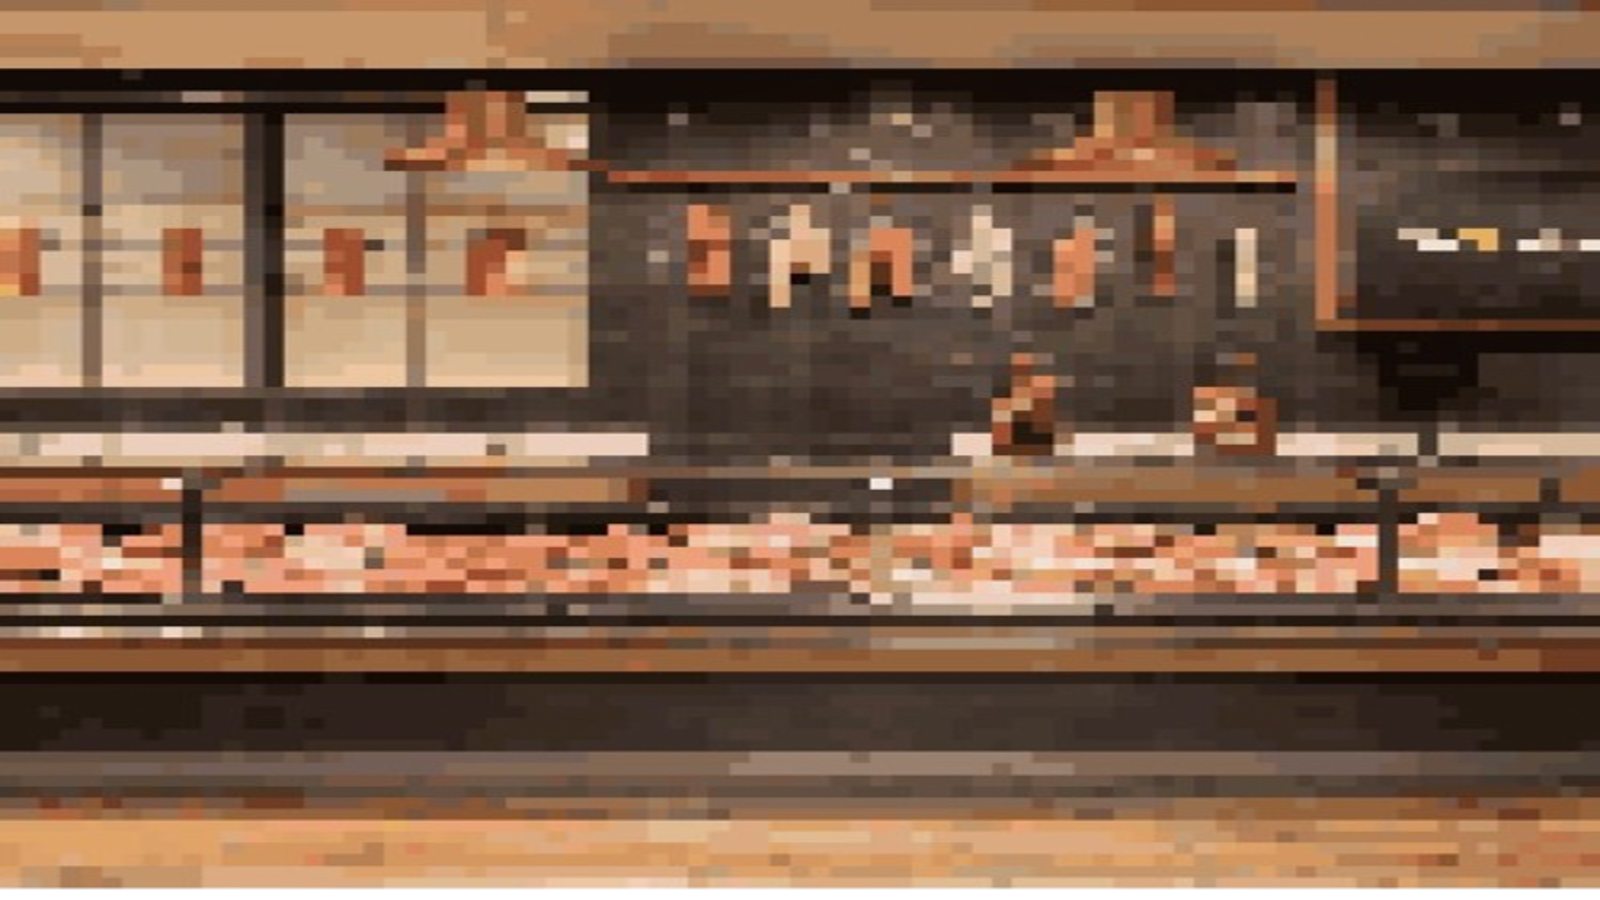
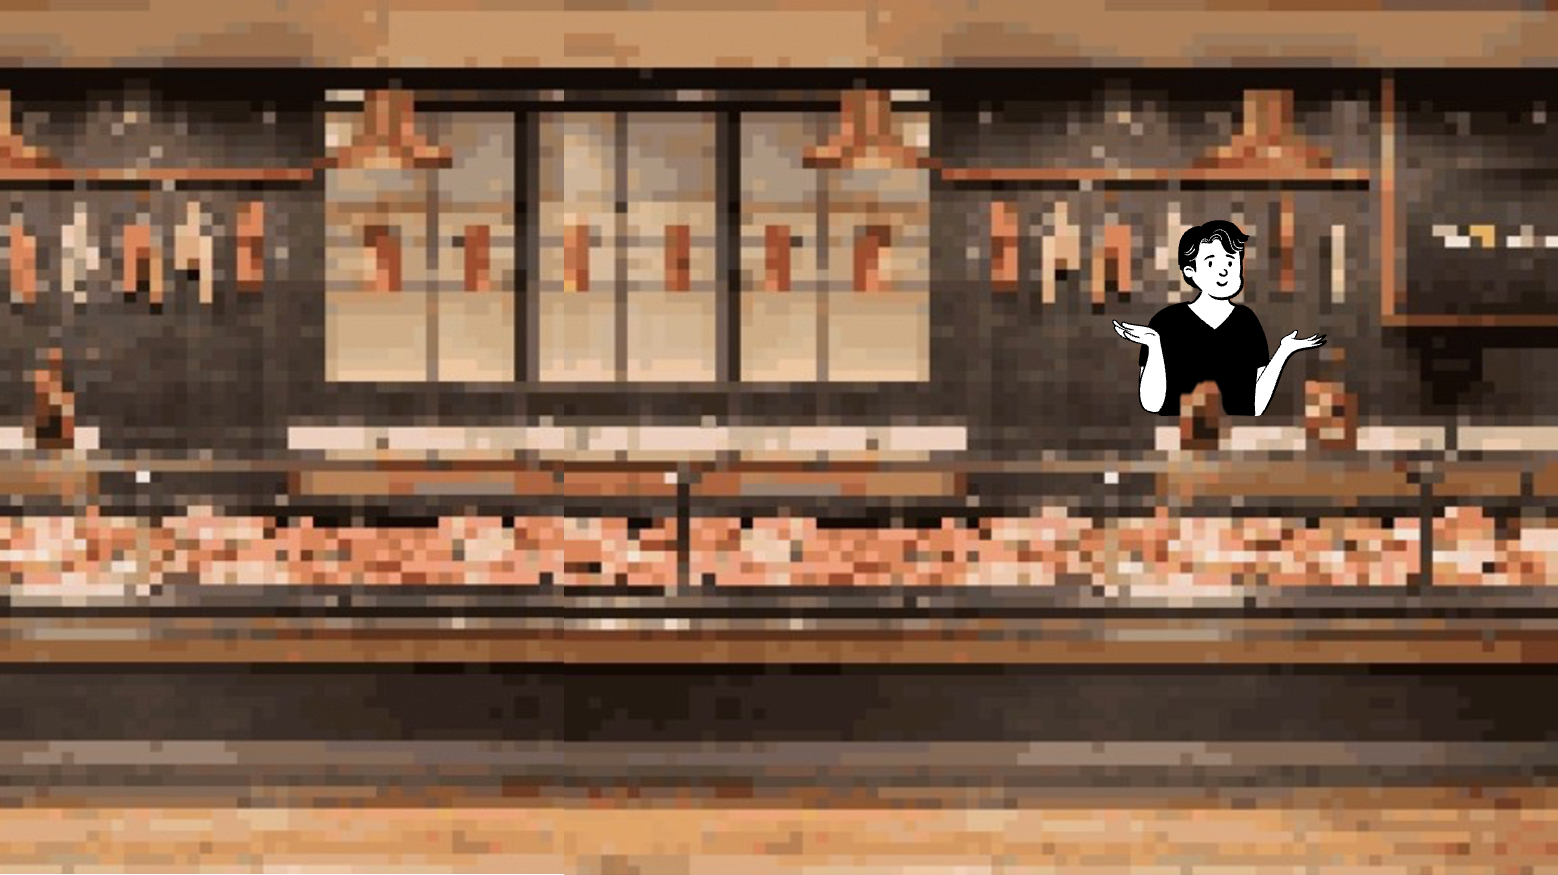
Fleischtheke

diff --git a/src/functions/handle_draws.py b/src/functions/handle_draws.py
@@ -1,0 +1,65 @@
+import pygame
+
+from config import *
+from functions.speech_bubble import speech_bubble
+
+def handle_draws(self):
+    if self.STAGE == "home":
+        pass
+
+    elif self.STAGE == "walk_into_edeka":
+        pass
+
+    elif self.STAGE == "edeka":
+
+        if self.edeka_stage == 1:
+            pass
+
+        elif self.edeka_stage == 2:
+            pass
+
+        elif self.edeka_stage == 3:
+            
+            if self.sp_b_it == 1:
+                text = "Moin! Ich nehme gerne ein Schnitzel im Broetchen mit Gewuerzketchup."
+                sb = speech_bubble(text, 600, True, "l", 24)
+                self.screen.blit(sb, (self.player.x + self.player.width*0.7, self.player.y - sb.get_height() + 25))
+            
+            elif self.sp_b_it == 2:
+                text = "Jo, gerne doch! Soll ich es noch einmal warm machen?"
+                sb = speech_bubble(text, 700, True, "r", 24)
+                self.screen.blit(sb, (990 - sb.get_width(), 220 - sb.get_height()))
+            
+            elif self.sp_b_it == 3:
+                text = "Ja gerne! Koennten Sie es mir dann auch direkt in meinen Beutel geben? Ich möchte gerne ein wenig auf Plastik im Alltag verzichten."
+                sb = speech_bubble(text, 700, True, "l", 24)
+                self.screen.blit(sb, (self.player.x + self.player.width*0.7, self.player.y - sb.get_height() + 25))
+            
+            elif self.sp_b_it == 4:
+                text = "Oh, das tut mir Leid... Das geht leider nicht. Firmen- und EU-Richtlinien..."
+                sb = speech_bubble(text, 700, True, "r", 24)
+                self.screen.blit(sb, (990 - sb.get_width(), 220 - sb.get_height()))
+            
+            elif self.sp_b_it == 5:
+                text = "Sind Sie sicher? Wie wäre es mit einer Wette? Wenn ich es schaffe allen Verpackungen auszuweichen, kriege ich das Broetchen so mit?"
+                sb = speech_bubble(text, 700, True, "l", 24)
+                self.screen.blit(sb, (self.player.x + self.player.width*0.7, self.player.y - sb.get_height() + 25))
+            
+            elif self.sp_b_it == 6:
+                text = "Nagut, mach dich bereit!"
+                sb = speech_bubble(text, 700, True, "r", 24)
+                self.screen.blit(sb, (990 - sb.get_width(), 220 - sb.get_height()))
+
+            elif self.sp_b_it == 7:
+                self.edeka_buttons_pressable = False
+                self.movement = False
+
+                self.active_sprites.add(self.space)
+                self.active_sprites.add(self.close_button)
+            
+            if pygame.time.get_ticks() - self.time_interval > self.interval_ms and self.sp_b_it <= 7:
+                self.time_interval = pygame.time.get_ticks()
+                self.sp_b_it += 1
+
+        elif self.edeka_stage == 4:
+            pass

diff --git a/src/functions/handle_edeka.py b/src/functions/handle_edeka.py
@@ -9,6 +9,10 @@ from classes.progress_bar import ProgressBar
 
 from functions.remove_sprites import remove_sprites
 from functions.inits import *
+from functions.speech_bubble import speech_bubble
+
+timer = 0
+check = True
 
 #load images from assets from home folder
 def load_image_asset(subfolder, file):
@@ -18,6 +22,9 @@ def load_image_asset(subfolder, file):
         return os.path.join(WORKING_DIR, 'assets', 'images', 'edeka', file)
 
 def handle_edeka(self):
+    global timer
+    global check
+    
     #handle each stage individually
     if self.edeka_stage == 1:
 
@@ -36,6 +43,8 @@ def handle_edeka(self):
                     self.buttons_not_pressable = True
                     self.transition_player_info = [Iwidth//2 - Iwidth//12, int(Iheight * 0.333), Iwidth//6, Iheight//2]
                     self.edeka_stage = 1
+
+                    self.sp_b_it = 0
         
         #open the next stage
         if self.player.x >= Iwidth - self.player.width//2:
@@ -80,8 +89,14 @@ def handle_edeka(self):
 
             #go to the next stage
             self.edeka_stage = 3
+            timer = pygame.time.get_ticks()
 
     elif self.edeka_stage == 3:
+
+        #stop the players movement so that the dialog can be played
+        if pygame.time.get_ticks() - timer > 1500 and check:
+            check = False
+            self.movement = False
 
         #go back to the previous stage
         if self.player.x <= -self.player.width//2:
@@ -142,3 +157,4 @@ def handle_edeka(self):
                     self.buttons_not_pressable = True
                     self.transition_player_info = [Iwidth//2 - Iwidth//12, int(Iheight * 0.333), Iwidth//6, Iheight//2]
         
+                    self.sp_b_it = 0

diff --git a/src/screens/deposit_machine.py b/src/screens/deposit_machine.py
@@ -47,6 +47,7 @@ class DepositeMachine(pygame.sprite.Sprite):
             img_6,
         ]
         self.it = 0
+        self.zero_one_first = True
 
     def update(self, Iwidth:int, Iheight:int, Cwidth:int, Cheight:int, *args, **kwargs):
         self.image.fill((0, 0, 0, 150))
@@ -58,6 +59,7 @@ class DepositeMachine(pygame.sprite.Sprite):
         if "game_class" in kwargs:
             game_obj = kwargs["game_class"]
         if self.it < game_obj.plastic_bottles:
+            self.zero_one_first = False
             self.image.blit(self.put_bottle[self.it_idx], (Iwidth//2-self.put_bottle[self.it_idx].get_width()//2 - 150, Iheight-self.put_bottle[self.it_idx].get_height()))
             if pygame.time.get_ticks() - self.time_interval > self.interval_ms:
                 self.time_interval = pygame.time.get_ticks()
@@ -66,11 +68,12 @@ class DepositeMachine(pygame.sprite.Sprite):
                 self.it_idx = 0
                 self.it += 1
         else:
-            #close the window automatically after the time has finished
-            game_obj.edeka_buttons_pressable = True
-            game_obj.movement = True
-            game_obj.active_sprites.remove(game_obj.deposit_machine)
-            game_obj.active_sprites.remove(game_obj.close_button)
+            if not self.zero_one_first:
+                #close the window automatically after the time has finished
+                game_obj.edeka_buttons_pressable = True
+                game_obj.movement = True
+                game_obj.active_sprites.remove(game_obj.deposit_machine)
+                game_obj.active_sprites.remove(game_obj.close_button)
 
         #Objekt skalieren
         x_factor = Cwidth/Iwidth

diff --git a/src/functions/inits.py b/src/functions/inits.py
@@ -81,6 +81,7 @@ def init_home(self):
 def init_pre_edeka(self):
     #pop-up screens
     self.pre_edeka_buttons_pressable = True
+    self.plastic_bottles = 0
 
     #load images from assets from home folder
     def load_image_asset(subfolder, file):
@@ -121,6 +122,9 @@ def init_pre_edeka(self):
 def init_edeka(self):
     #pop-up screens
     self.edeka_buttons_pressable = True
+    self.interval_ms = 5000
+    self.time_interval = pygame.time.get_ticks()
+    self.sp_b_it = 0
 
     #load images from assets from home folder
     def load_image_asset(subfolder, file):
@@ -144,7 +148,9 @@ def init_edeka(self):
                     
     # obejcts in stage 3
     self.edeka_3_background         = GImage(0, 0, Iwidth, Iheight, load_image_asset('backgrounds', 'Fleischtheke.png'), False)
-    self.space_button               = Button(Iwidth//2 - 50, Iheight//2 - 50, 100, 100, (192, 160, 236))
+    #self.edeka_3_background_top     = GImage(0, 0, Iwidth, Iheight, load_image_asset('backgrounds', 'Fleischtheke.png'), False)
+    #self.edeka_3_background_bottom  = GImage(0, 0, Iwidth, Iheight, load_image_asset('backgrounds', 'Fleischtheke.png'), False)
+    #self.seller                     = GImage(700, 200, 200, 400, (200, 230, 150), False)
     self.space                      = Space()      
 
     # obejcts in stage 4
@@ -178,7 +184,6 @@ def add_edeka_2(self):
 def add_edeka_3(self):
     # add those objects to the right sprites group
     self.active_sprites.add(self.edeka_3_background)
-    self.active_sprites.add(self.space_button)
 def add_edeka_4(self):
     # add those objects to the right sprites group
     self.active_sprites.add(self.edeka_4_background)

diff --git a/src/game.py b/src/game.py
@@ -13,6 +13,7 @@ from functions.inits import init_home, init_pre_edeka, init_edeka
 from functions.handle_edeka import handle_edeka
 from functions.remove_sprites import remove_sprites
 from functions.handle_mouse_clicks import handle_mouse_home, handle_mouse_edeka, handle_mouse_pre_edeka
+from functions.handle_draws import handle_draws
 
 from screens.settings_screen import SettingsScreen
 from screens.book_screen import BookScreen
@@ -81,7 +82,7 @@ class Game:
 
         # init the home stage
         init_home(self)
-        pygame.mixer.music.set_volume(0.01)
+        pygame.mixer.music.set_volume(0.25)
         music = pygame.mixer.music.load("./assets/sounds/Startbildschirm_GameMusik.mp3")
         pygame.mixer.music.play(loops=-1)
 
@@ -145,6 +146,9 @@ class Game:
             self.active_sprites.update(Iwidth, Iheight, Cwidth, Cheight, stage=self.STAGE, progress=self.progress, player_movement=self.movement, game_class=self)
             self.active_sprites.draw(self.screen)
 
+            #hande all drawings that should be done besides the sprites
+            handle_draws(self)
+
             #do everything ontop of the game then end the frame
             self.transition_black(pygame.time.get_ticks(), self.tmp_ticker_start, self.black_transition[1])
             draw_p_data(self, Cwidth, self.STAGE)
@@ -187,7 +191,7 @@ class Game:
                 self.movement = True
 
             #update the volume
-            pygame.mixer.music.set_volume(0.01)
+            pygame.mixer.music.set_volume(0.25)
         else:
             return
 

diff --git a/src/functions/speech_bubble.py b/src/functions/speech_bubble.py
@@ -2,10 +2,10 @@ import pygame
 
 from config import *
 
-def speech_bubble(text, max_width, corner:bool = False, crn_dir:str = "l"):
+def speech_bubble(text, max_width, corner:bool = False, crn_dir:str = "l", font_size:int = 32):
 
     # modify the text --------------------------------------------------------------
-    font = pygame.font.Font(os.path.join(WORKING_DIR, 'assets', 'fonts', 'game-font.ttf'), 32)
+    font = pygame.font.Font(os.path.join(WORKING_DIR, 'assets', 'fonts', 'game-font.ttf'), font_size)
     words = text.split(' ')
     rendered_lines = []
     rendered_text = ''
@@ -36,12 +36,12 @@ def speech_bubble(text, max_width, corner:bool = False, crn_dir:str = "l"):
     for idx, line in enumerate(rendered_lines):
         line_sf = font.render(rendered_lines[idx], True, (0, 0, 0), (255, 255, 255))
         text_obj.blit(line_sf, (max_width//2 - font.size(rendered_lines[idx])[0]//2, (font.size(rendered_lines[idx])[1] + 5)*idx))
-    padding = 50
+    padding = 70
     width = text_obj.get_width() + padding
     height = text_obj.get_height() + padding
 
     #draw the frame around the text ------------------------------------------------
-    line_width = 10
+    line_width = font_size//3
 
     #basic surface
     if not corner:

diff --git a/src/screens/candy_crush.py b/src/screens/candy_crush.py
@@ -144,10 +144,10 @@ class CandyCrush(pygame.sprite.Sprite):
 
 
         #structure the time whenm the window was opened
-        self.interval_1_ms = 10000
+        self.interval_1_ms = 12000
         self.interval_2_ms = 45000
         if 0 <= self.time_since_start_ms <= self.interval_1_ms:
-            sb = speech_bubble("awd awd awdawddddddd awdawa a aaw ad awdawd awaadawd asdaaa aaaaaa aa aaaaaa aaa aaaaaa aaaaa aaaa aadadadad  adadawdaw asdawd awda awdawd awdawdawd awdawd awd awd awddawd awd awdawd awd adw adawd awd awd awdad adadawdaw asdawd awda awdawd awdawdawd awdawd awd awd awddawd awd awdawd awd adw adawd awd awd awdad", 500, True, "l")
+            sb = speech_bubble("Sehr gut! Wie es aussieht, hat jemand einige Pfandflaschen im Muelleimer vergessen... Sammle die Pfandflaschen und bringe sie zum Pfandautomaten im Eingang des Supermarktes! Viel Erfolg, dir bleibt nicht viel Zeit... (Du erkennst eine Pfandflasche an dem Pfandsymbol auf dem Etikette.)", 500, True, "l")
             self.image.blit(sb, (Iwidth//2 - sb.get_width()//2, Iheight//2 - sb.get_height()//2))
         elif self.interval_1_ms <= self.time_since_start_ms <= self.interval_1_ms + self.interval_2_ms:
             #draw the game

diff --git a/src/functions/handle_mouse_clicks.py b/src/functions/handle_mouse_clicks.py
@@ -162,12 +162,7 @@ def handle_mouse_edeka(self, event):
     #stage 3 --------------------------------------------------------------------------------------
     # open the minigame window
     if self.edeka_stage == 3:
-        if self.space_button.is_clicked(event.pos, self.edeka_buttons_pressable):
-            self.edeka_buttons_pressable = False
-            self.movement = False
-
-            self.active_sprites.add(self.space)
-            self.active_sprites.add(self.close_button)
+        pass
 
     #settings button ------------------------------------------------------------------------------
     if self.settings_button.is_clicked(event.pos, self.edeka_buttons_pressable):

diff --git a/src/classes/player.py b/src/classes/player.py
@@ -61,7 +61,7 @@ class Player(pygame.sprite.Sprite):
 
         self.dx = 0
         self.dy = 0
-        self.walking_speed = 50
+        self.walking_speed = 5
         self.jump_power = 8
 
 
